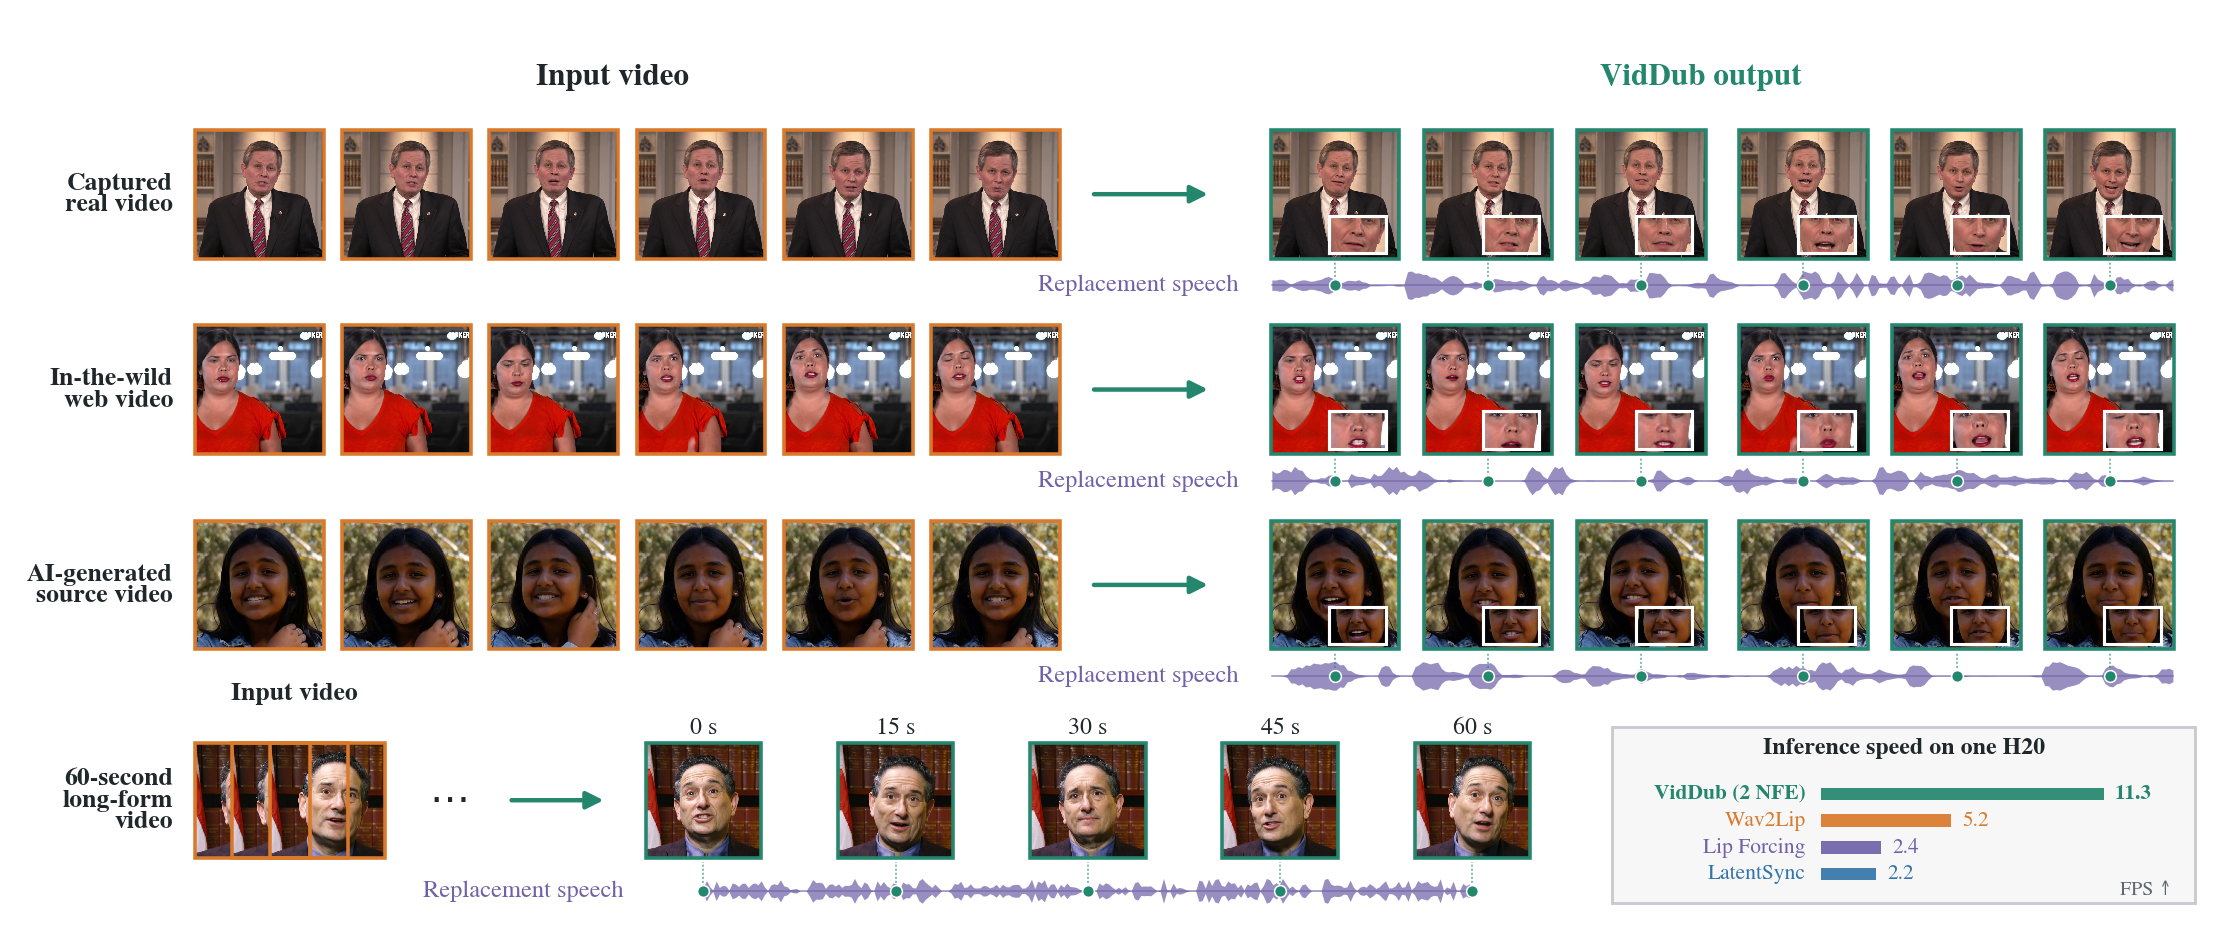
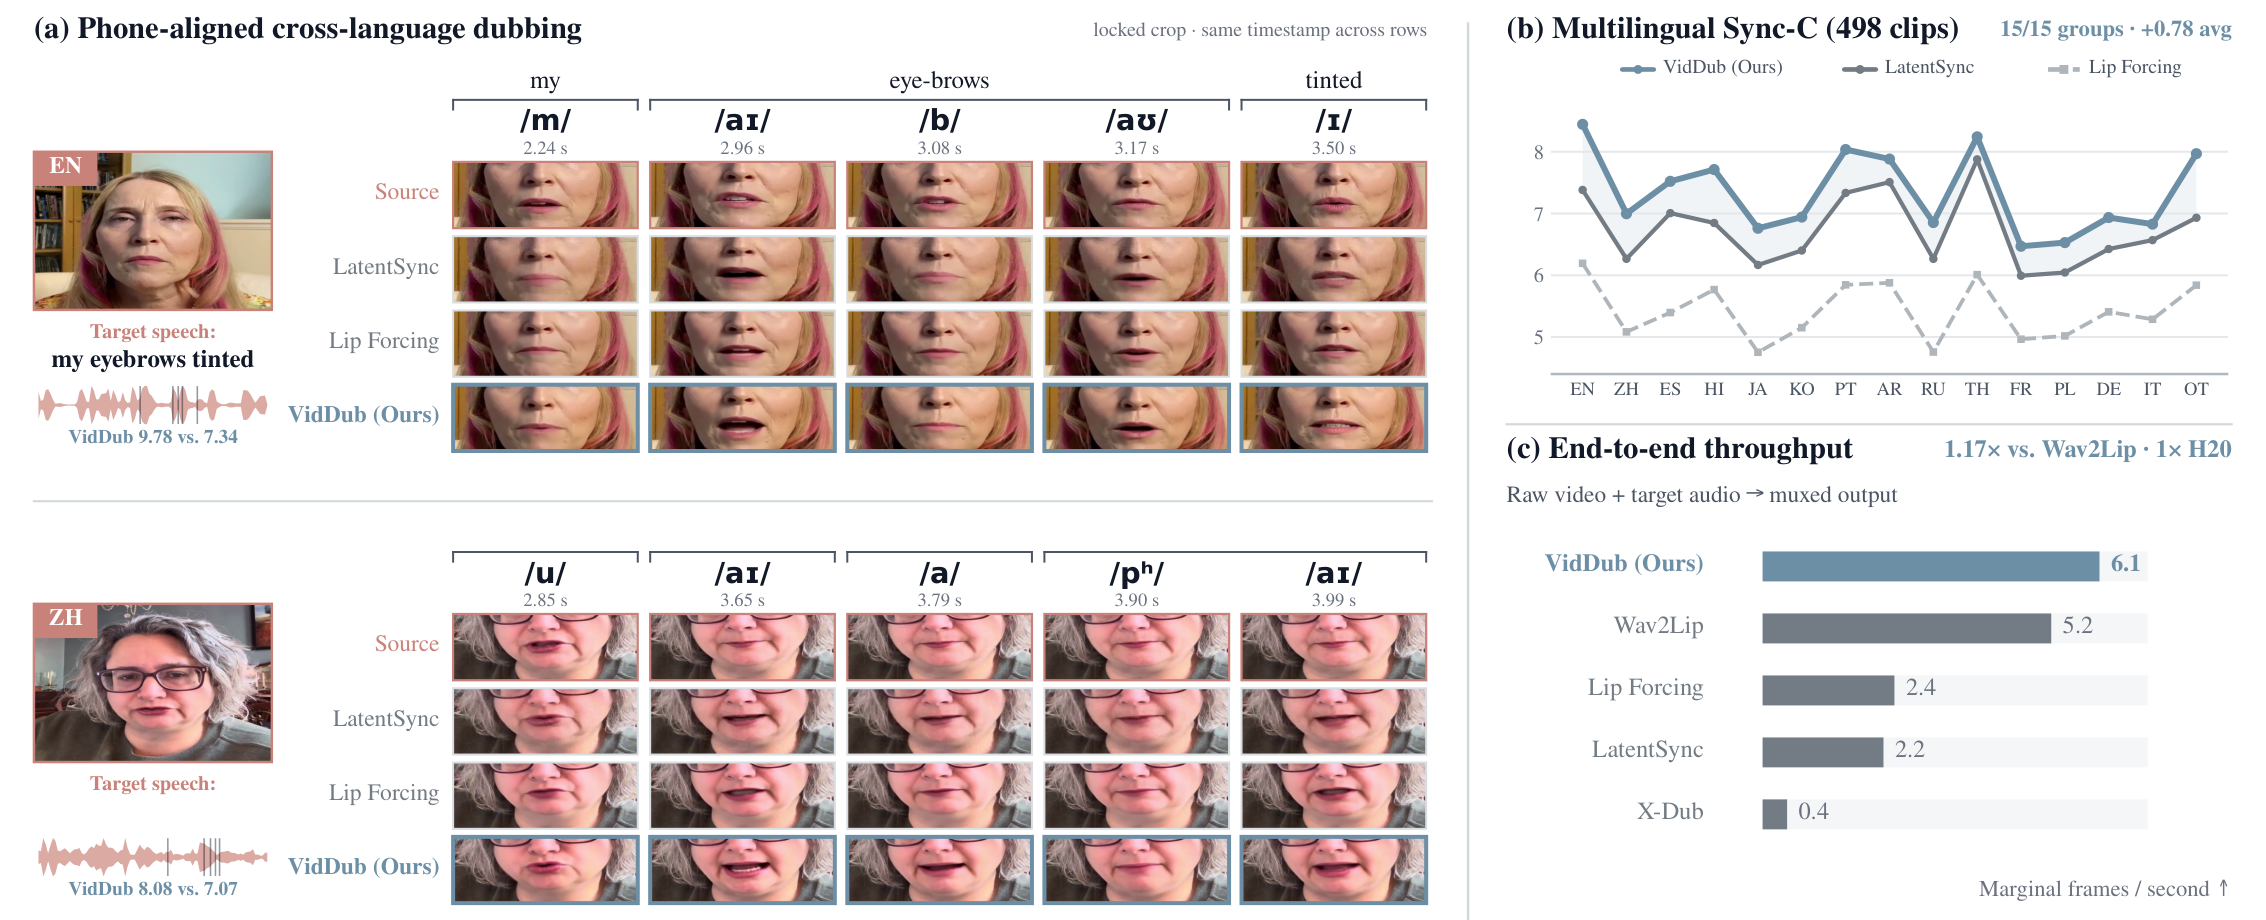
Sync latest paper figures

diff --git a/index.html b/index.html
@@ -342,9 +342,9 @@ footer{padding:40px 0 70px;color:var(--muted);font-size:13px;border-top:1px soli
     </div>
   </div>
   <div class="hero-visual">
-    <img src="media/teaser.png" alt="VidDub replacement-speech dubbing across captured, web, generated, and long-form sources">
+    <img src="media/teaser.png" alt="VidDub cross-language dubbing, multilingual synchronization, and end-to-end throughput">
   </div>
-  <p class="caption">VidDub edits captured, web, generated, and 60-second videos with replacement speech. It reaches 11.3 FPS on one H20 with two denoising steps.</p>
+  <p class="caption">Phone-aligned cross-language examples, synchronization across 15 language groups, and end-to-end throughput on one H20.</p>
 
   <div class="stats">
     <div class="stat"><b>2</b><span>denoising steps per window</span></div>

diff --git a/build.py b/build.py
@@ -382,9 +382,9 @@ footer{padding:40px 0 70px;color:var(--muted);font-size:13px;border-top:1px soli
     </div>
   </div>
   <div class="hero-visual">
-    <img src="media/teaser.png" alt="VidDub replacement-speech dubbing across captured, web, generated, and long-form sources">
+    <img src="media/teaser.png" alt="VidDub cross-language dubbing, multilingual synchronization, and end-to-end throughput">
   </div>
-  <p class="caption">VidDub edits captured, web, generated, and 60-second videos with replacement speech. It reaches 11.3 FPS on one H20 with two denoising steps.</p>
+  <p class="caption">Phone-aligned cross-language examples, synchronization across 15 language groups, and end-to-end throughput on one H20.</p>
 
   <div class="stats">
     <div class="stat"><b>2</b><span>denoising steps per window</span></div>
